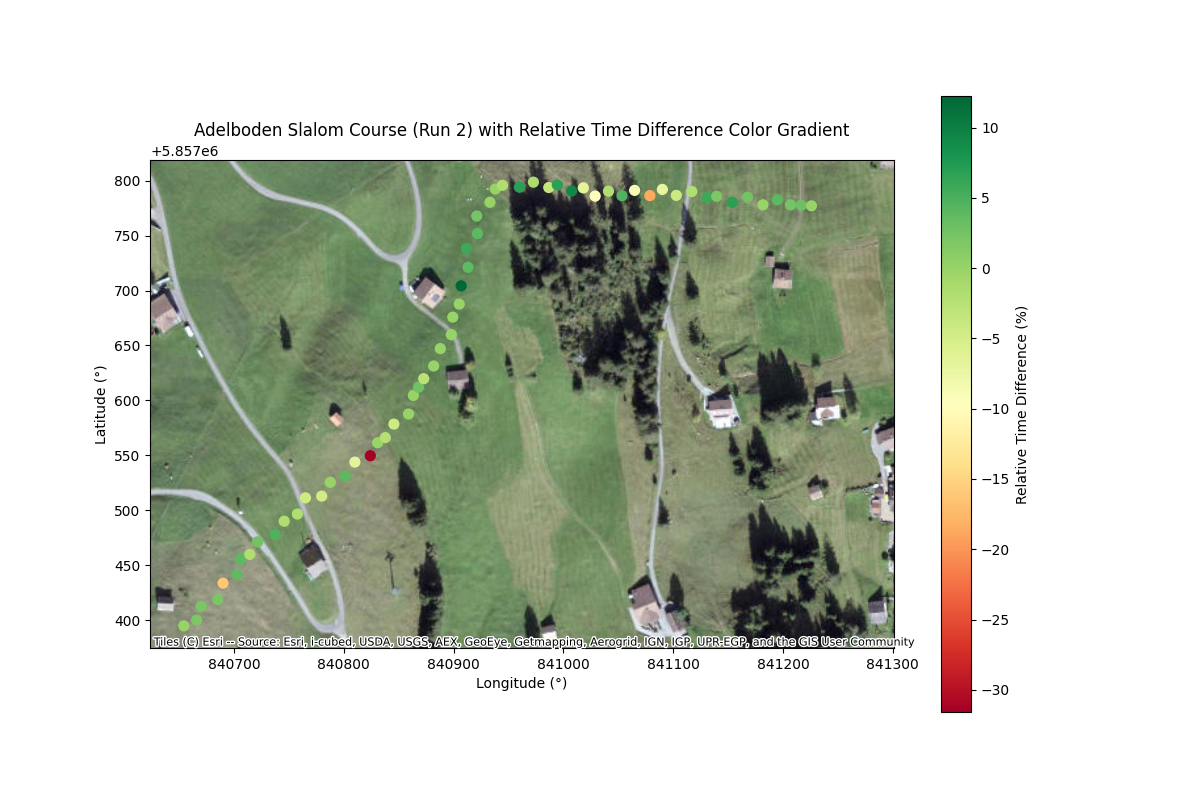
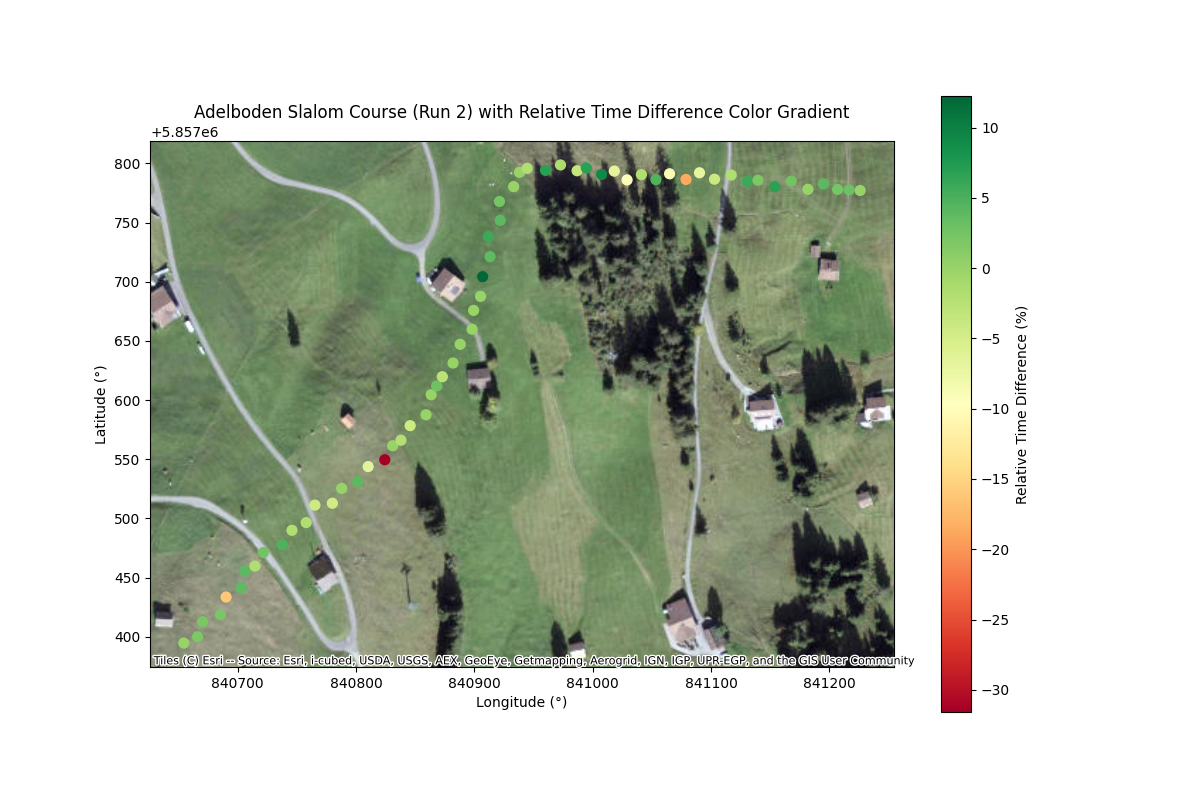
animation adelboden loic WIP

diff --git a/try/adelboden_map.py b/try/adelboden_map.py
@@ -14,6 +14,11 @@ data = pd.read_csv('/Users/marcgurber/SwissSki/SwissSki_Slalom/Merged_Course_and
 # Filter data for Adelboden Run 2 only and drop rows with missing Longitude data
 adelboden_data = data[(data['Venue'] == 'Adelboden') & (data['Run'] == 2)].dropna(subset=["Longitude (°)"])
 
+# Drop rows with any NaN values
+adelboden_data = adelboden_data.dropna(subset=["relative_time_difference"])
+
+print(adelboden_data)   
+
 # Sort by gate order
 adelboden_data_sorted = adelboden_data.sort_values(by="Gate")
 

diff --git a/adelboden_mapview_color_line.py b/adelboden_mapview_color_line.py
@@ -81,5 +81,5 @@ ctx.add_basemap(ax, source=ctx.providers.Esri.WorldImagery)
 plt.xlabel('Longitude (°)')
 plt.ylabel('Latitude (°)')
 plt.title(f"Adelboden Slalom Course (Run 2) with {color_column.replace('_', ' ').title()} Color Gradient")
-plt.savefig('lenzerheide_map_line.png')
+plt.savefig('adelboden_map_line.png')
 plt.show()
